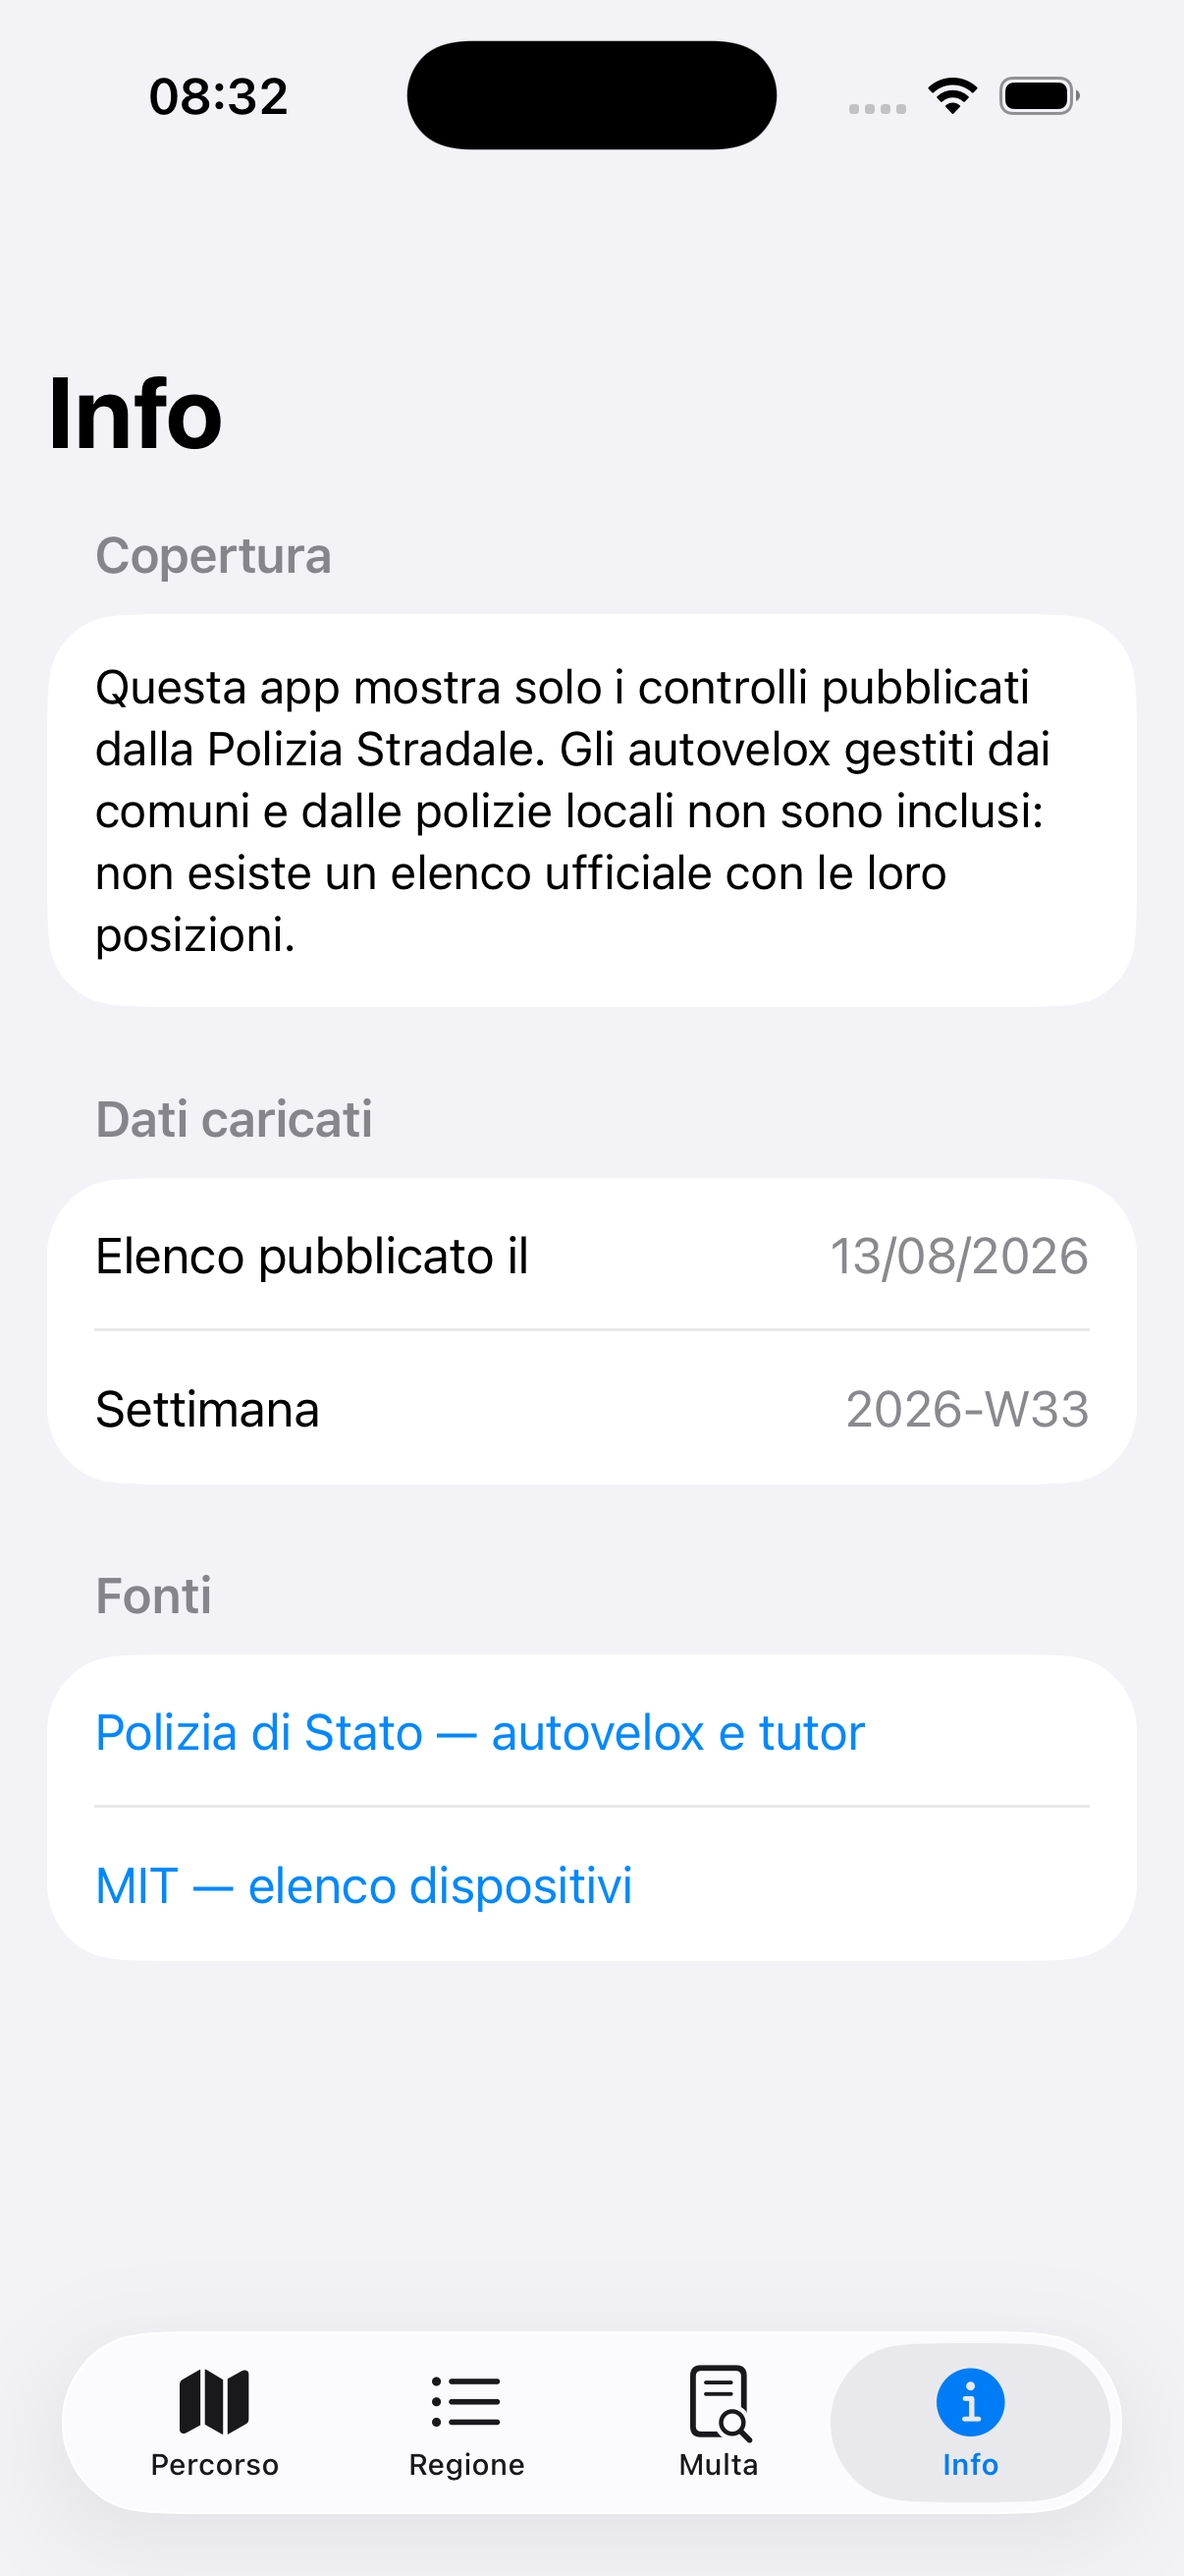
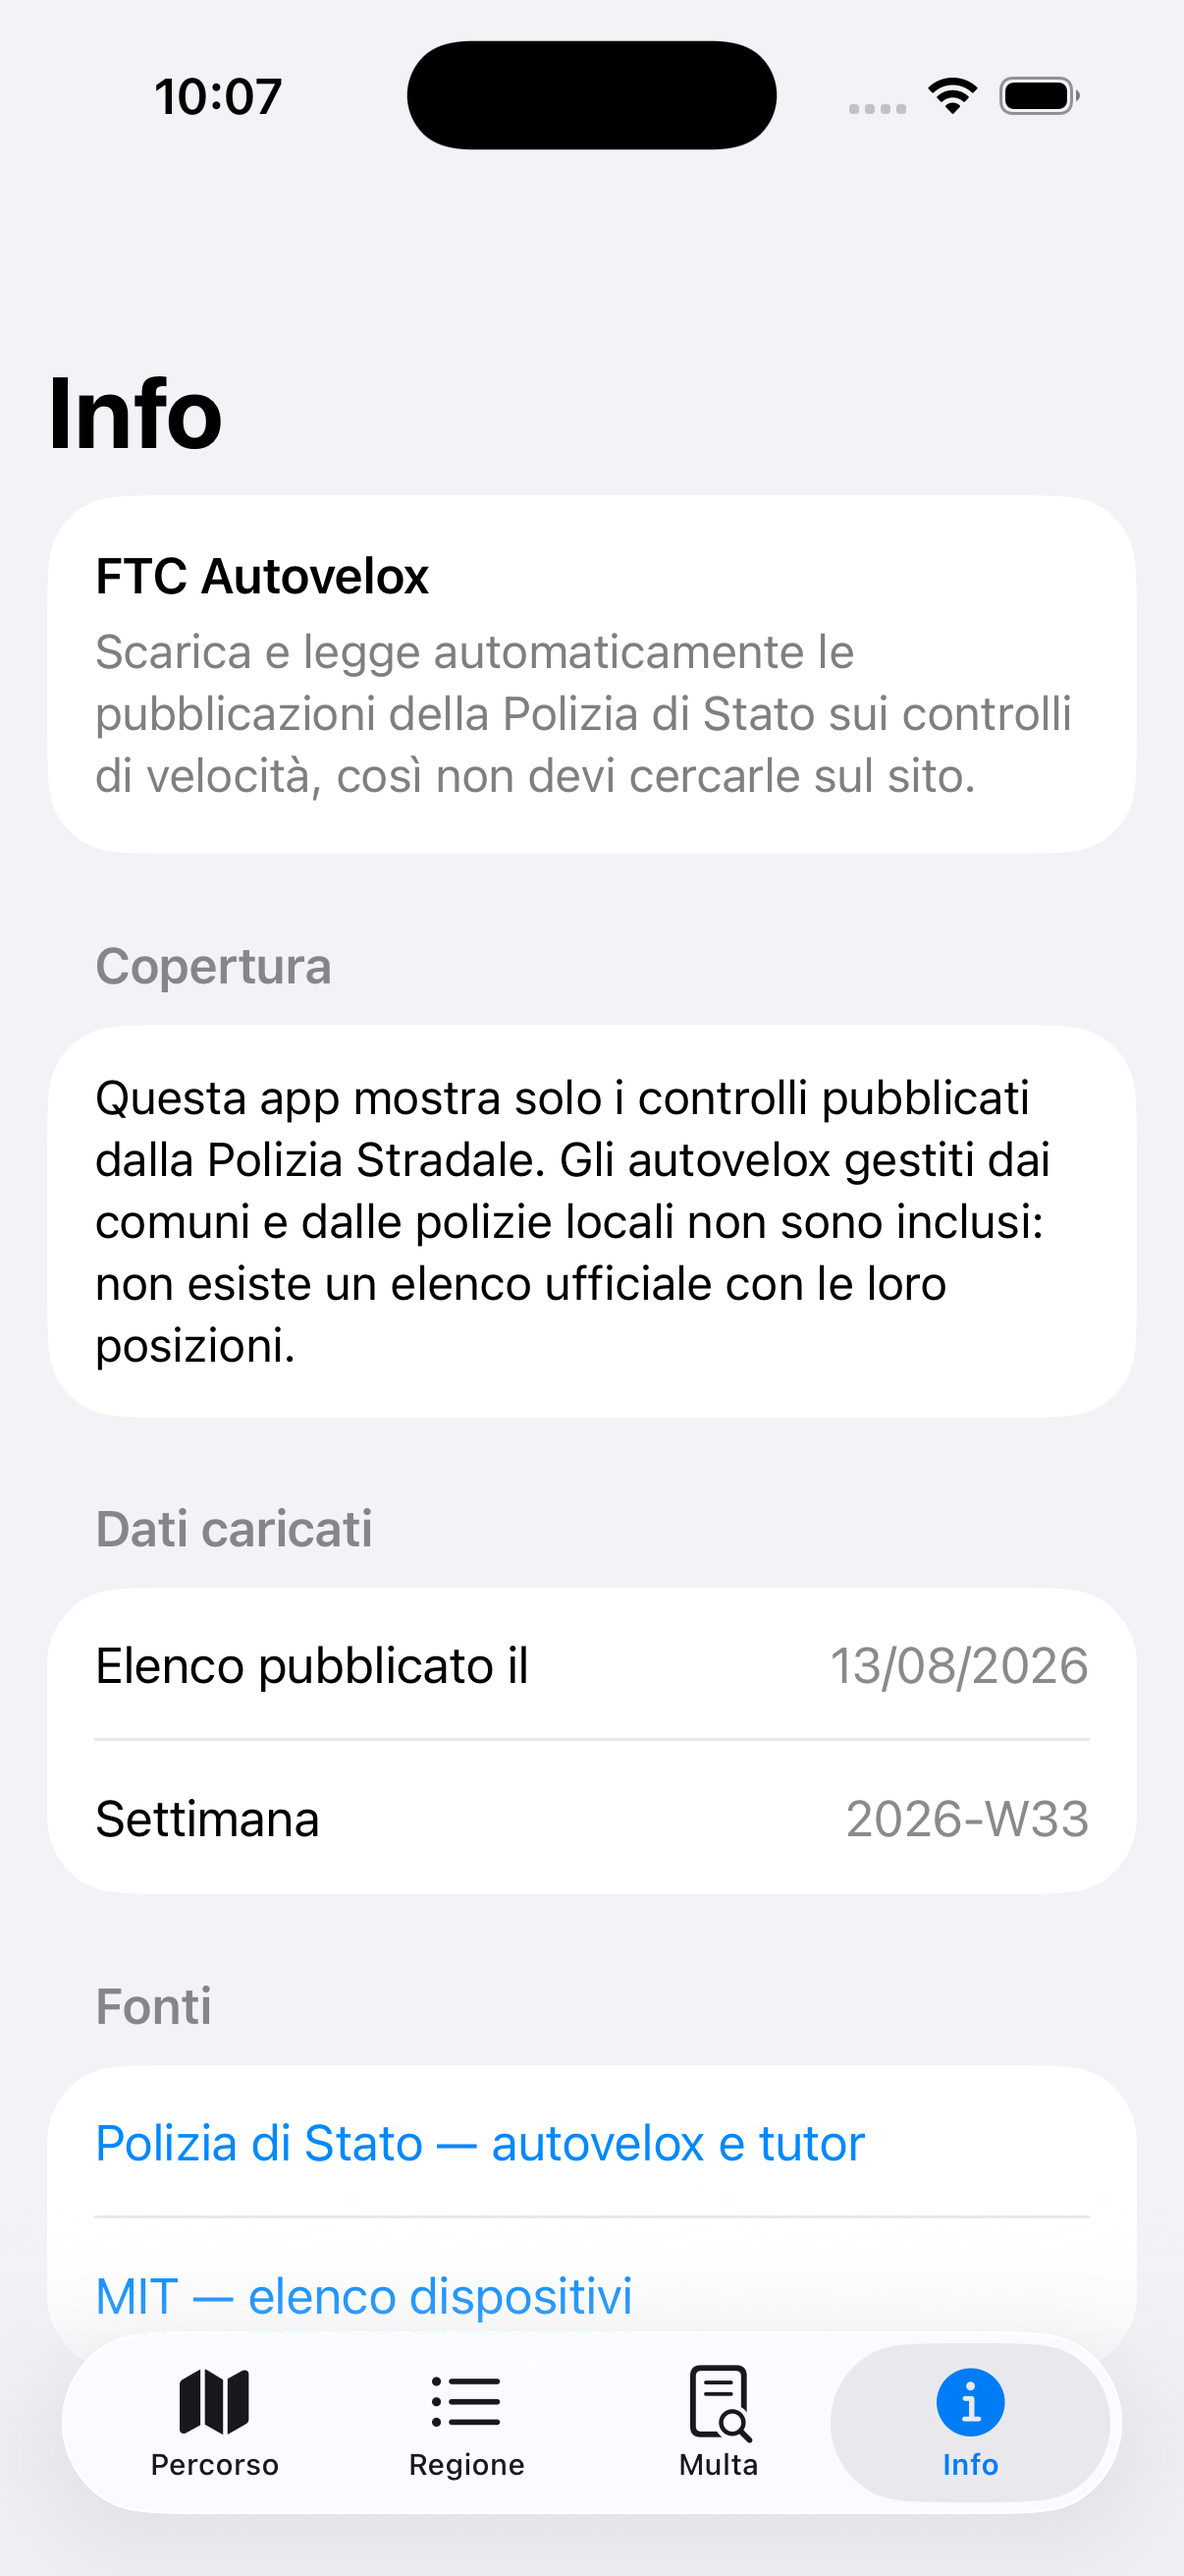
feat: brand as FTC Autovelox
Display name, generated app icon, Info-screen identity and App Store metadata.

The icon is the product's actual idea rather than a generic camera: a road with
a highlighted stretch, because the sources never say where along the stretch the
installation stands. No text beyond the FTC monogram - anything more is
illegible at 40px.

I claimed 'FTC Autovelox' would truncate on the home screen and proposed 'FTC
Velox'. I was wrong: iOS truncates by pixel width, and the full name fits.
Verified on an iPhone 17 home screen rather than argued.

Store copy in docs/STORE.md names the authority in every line and speaks about
the limit, never about avoiding a fine, which is what guideline 1.4.4 asks for.
Corrected 'publicazione' to 'pubblicazioni' and capitalised 'Polizia di Stato'.

Claude-Session: https://claude.ai/code/session_012rCMjxBwhzk3agcKwa94PA

diff --git a/ios/App/Views/InfoView.swift b/ios/App/Views/InfoView.swift
@@ -7,6 +7,17 @@ struct InfoView: View {
     var body: some View {
         NavigationStack {
             List {
+                Section {
+                    VStack(alignment: .leading, spacing: 6) {
+                        Text("FTC Autovelox")
+                            .font(.headline)
+                        Text(Copy.appPurpose)
+                            .font(.callout)
+                            .foregroundStyle(.secondary)
+                    }
+                    .padding(.vertical, 2)
+                }
+
                 Section("Copertura") {
                     Text(Copy.coverageDisclaimer)
                         .font(.callout)

diff --git a/ios/VeloxKit/Sources/VeloxKit/Copy.swift b/ios/VeloxKit/Sources/VeloxKit/Copy.swift
@@ -87,3 +87,11 @@ public extension Copy {
         "Tratto con controllo velocità su \(road) — rispetta il limite."
     }
 }
+
+public extension Copy {
+    /// What the app is, in one sentence, in the user's own words.
+    static let appPurpose = """
+        Scarica e legge automaticamente le pubblicazioni della Polizia di Stato \
+        sui controlli di velocità, così non devi cercarle sul sito.
+        """
+}

diff --git a/ios/VeloxKit/Tests/VeloxKitTests/CopyTests.swift b/ios/VeloxKit/Tests/VeloxKitTests/CopyTests.swift
@@ -16,6 +16,7 @@ final class CopyTests: XCTestCase {
             Copy.mitSearchPrompt,
             Copy.mitNoMatch,
             Copy.stretchEntryAlert(road: "A4"),
+            Copy.appPurpose,
         ]
     }
 

diff --git a/tools/make_icon.py b/tools/make_icon.py
@@ -1,0 +1,165 @@
+"""Generate the FTC Autovelox app icon.
+
+The mark is the product's one real idea: a road with a highlighted stretch. The
+sources never say exactly where a camera stands, only which stretch it is on, so
+the icon shows a band across a road rather than a pin on a point. Amber because
+that is the colour the app already uses for a monitored stretch.
+
+Run: .venv/bin/python tools/make_icon.py
+"""
+
+from __future__ import annotations
+
+import math
+from pathlib import Path
+
+from PIL import Image, ImageDraw, ImageFilter, ImageFont
+
+OUT = Path("ios/App/Resources/Assets.xcassets/AppIcon.appiconset")
+SIZE = 1024
+
+INK = (11, 18, 32)
+INK_TOP = (25, 40, 66)
+ROAD = (43, 54, 74)
+LINE = (233, 238, 245)
+AMBER = (245, 158, 11)
+AMBER_SOFT = (245, 158, 11, 120)
+
+
+def _background(size: int) -> Image.Image:
+    """A vertical gradient, dark at the bottom so the amber band carries."""
+    image = Image.new("RGB", (size, size), INK)
+    draw = ImageDraw.Draw(image)
+    for y in range(size):
+        t = y / size
+        draw.line(
+            [(0, y), (size, y)],
+            fill=(
+                int(INK_TOP[0] + (INK[0] - INK_TOP[0]) * t),
+                int(INK_TOP[1] + (INK[1] - INK_TOP[1]) * t),
+                int(INK_TOP[2] + (INK[2] - INK_TOP[2]) * t),
+            ),
+        )
+    return image
+
+
+def _road(image: Image.Image, size: int) -> None:
+    """A road sweeping up the icon, drawn as a thick tapered polyline."""
+    layer = Image.new("RGBA", (size, size), (0, 0, 0, 0))
+    draw = ImageDraw.Draw(layer)
+
+    points = [
+        (size * 0.16, size * 0.94),
+        (size * 0.34, size * 0.70),
+        (size * 0.46, size * 0.48),
+        (size * 0.62, size * 0.26),
+        (size * 0.84, size * 0.08),
+    ]
+    # Taper: wide at the bottom, narrow towards the horizon.
+    for i in range(len(points) - 1):
+        width = int(size * (0.20 - 0.030 * i))
+        draw.line([points[i], points[i + 1]], fill=ROAD, width=width, joint="curve")
+
+    # Centre dashes, thinning with the road.
+    for i in range(len(points) - 1):
+        x1, y1 = points[i]
+        x2, y2 = points[i + 1]
+        steps = 4
+        for s in range(steps):
+            a = s / steps
+            b = a + 0.42 / steps
+            draw.line(
+                [
+                    (x1 + (x2 - x1) * a, y1 + (y2 - y1) * a),
+                    (x1 + (x2 - x1) * b, y1 + (y2 - y1) * b),
+                ],
+                fill=LINE + (210,),
+                width=max(3, int(size * (0.016 - 0.0026 * i))),
+            )
+    image.paste(layer, (0, 0), layer)
+
+
+def _stretch_band(image: Image.Image, size: int) -> None:
+    """The highlighted stretch — the whole point of the product."""
+    glow = Image.new("RGBA", (size, size), (0, 0, 0, 0))
+    draw = ImageDraw.Draw(glow)
+    a = (size * 0.335, size * 0.705)
+    b = (size * 0.475, size * 0.455)
+    draw.line([a, b], fill=AMBER_SOFT, width=int(size * 0.30), joint="curve")
+    glow = glow.filter(ImageFilter.GaussianBlur(size * 0.045))
+    image.paste(glow, (0, 0), glow)
+
+    layer = Image.new("RGBA", (size, size), (0, 0, 0, 0))
+    draw = ImageDraw.Draw(layer)
+    draw.line([a, b], fill=AMBER + (255,), width=int(size * 0.175), joint="curve")
+    image.paste(layer, (0, 0), layer)
+
+
+def _font(px: int) -> ImageFont.FreeTypeFont:
+    for candidate in (
+        "/System/Library/Fonts/SFCompact.ttf",
+        "/System/Library/Fonts/HelveticaNeue.ttc",
+        "/System/Library/Fonts/Supplemental/Arial Bold.ttf",
+        "/Library/Fonts/Arial Bold.ttf",
+    ):
+        if Path(candidate).exists():
+            try:
+                return ImageFont.truetype(candidate, px)
+            except OSError:
+                continue
+    return ImageFont.load_default()
+
+
+def _wordmark(image: Image.Image, size: int) -> None:
+    draw = ImageDraw.Draw(image)
+    font = _font(int(size * 0.20))
+    text = "FTC"
+    box = draw.textbbox((0, 0), text, font=font)
+    x = size * 0.085
+    y = size * 0.075
+    # A soft shadow keeps it readable over the gradient at small sizes.
+    draw.text((x + size * 0.006, y + size * 0.006), text, font=font, fill=(0, 0, 0, 160))
+    draw.text((x, y), text, font=font, fill=LINE)
+    _ = box
+
+
+def build(size: int = SIZE) -> Image.Image:
+    image = _background(size)
+    _road(image, size)
+    _stretch_band(image, size)
+    _wordmark(image, size)
+    return image
+
+
+def main() -> None:
+    OUT.mkdir(parents=True, exist_ok=True)
+    icon = build(SIZE)
+    icon.save(OUT / "icon-1024.png")
+
+    contents = """{
+  "images" : [
+    {
+      "filename" : "icon-1024.png",
+      "idiom" : "universal",
+      "platform" : "ios",
+      "size" : "1024x1024"
+    }
+  ],
+  "info" : { "author" : "xcode", "version" : 1 }
+}
+"""
+    (OUT / "Contents.json").write_text(contents)
+
+    # A quick look at how it holds up small.
+    preview = Image.new("RGB", (760, 200), (248, 250, 252))
+    x = 24
+    for px in (180, 120, 80, 60, 40):
+        thumb = icon.resize((px, px), Image.LANCZOS)
+        preview.paste(thumb, (x, 100 - px // 2))
+        x += px + 24
+    preview.save("docs/screenshots/icon-sizes.png")
+    print(f"wrote {OUT/'icon-1024.png'} and docs/screenshots/icon-sizes.png")
+
+
+if __name__ == "__main__":
+    main()

diff --git a/docs/STORE.md b/docs/STORE.md
@@ -1,0 +1,91 @@
+# App Store metadata — FTC Autovelox
+
+Copy here is public-facing and load-bearing for review. Guideline 1.4.4 permits
+only law-enforcement-published data and prohibits encouraging excessive speed, so
+every line names the source and speaks about the limit, never about avoiding a
+fine.
+
+## Name
+
+```
+FTC Autovelox
+```
+
+Home-screen name (`CFBundleDisplayName`) is the same and fits without truncation
+— verified on an iPhone 17 home screen, see `docs/screenshots/homescreen.png`.
+
+## Subtitle (max 30 characters)
+
+```
+Controlli Polizia Stradale
+```
+
+26 characters. Names the authority, which is both the differentiator and the
+compliance anchor.
+
+Alternatives, if you prefer:
+
+| | chars |
+|---|---|
+| Pubblicazioni Polizia Stradale | 30 |
+| Dove si controlla la velocità | 29 |
+
+## Description
+
+```
+FTC Autovelox scarica e legge automaticamente le pubblicazioni della Polizia
+di Stato, così non devi più andare a cercarle sul sito e aprire i PDF.
+
+Ogni lunedì la Polizia Stradale pubblica dove saranno attivi i controlli di
+velocità con apparecchiature mobili, regione per regione, e mantiene l'elenco
+delle postazioni fisse su autostrade e strade ordinarie. FTC Autovelox legge
+queste pubblicazioni e te le mostra sul percorso che stai per fare.
+
+• Inserisci partenza e arrivo e scegli il giorno: vedi i controlli pubblicati
+  lungo la tua strada, in ordine di percorrenza.
+• Consulta la settimana regione per regione.
+• Modalità viaggio opzionale: un avviso vocale quando entri in un tratto
+  controllato. È spenta finché non la attivi tu.
+• Verifica se il dispositivo indicato su un verbale è presente nell'elenco
+  dei dispositivi censiti dal MIT.
+
+DOVE SI TROVA ESATTAMENTE
+Le fonti ufficiali indicano la strada, il comune, il chilometro e la direzione,
+ma non pubblicano coordinate. L'app disegna quindi il TRATTO lungo il quale si
+trova la postazione, non un punto inventato. Quando l'informazione non c'è, l'app
+lo dice.
+
+COSA NON C'È
+Sono inclusi solo i controlli pubblicati dalla Polizia Stradale. Gli autovelox
+gestiti dai comuni e dalle polizie locali non compaiono in nessun elenco
+ufficiale con le posizioni, quindi non sono nell'app. L'assenza di una
+segnalazione non significa che una strada non sia controllata.
+
+Nessuna segnalazione inserita dagli utenti: i dati vengono esclusivamente dalle
+pubblicazioni ufficiali.
+
+Rispettare i limiti di velocità non è solo un obbligo: è la misura più efficace
+per ridurre gli incidenti.
+```
+
+## Fonti citate nella scheda
+
+- Polizia di Stato — https://www.poliziadistato.it/articolo/autovelox-e-tutor-dove-sono
+- MIT — https://velox.mit.gov.it/dispositivi
+
+## Review notes (for App Review, not public)
+
+```
+All camera and speed-check data in this app is published by Italian law
+enforcement (Polizia di Stato) and by the Ministry of Infrastructure and
+Transport. The app contains no user-submitted reports of any kind. Source URLs:
+https://www.poliziadistato.it/articolo/autovelox-e-tutor-dove-sono and
+https://velox.mit.gov.it/dispositivi
+```
+
+## Still to decide
+
+- Developer account type. An individual account publishes your legal name as the
+  seller; an organization account (requires D-U-N-S) publishes a company name.
+- Whether to review the CC BY-NC-ND notice on the Polizia di Stato site before
+  publishing.
